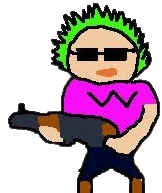
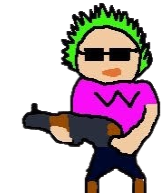
q

Changed region(s): [[0.0309, 0.0, 1.0, 1.0]]

diff --git a/src/scenes/PlayScene.js b/src/scenes/PlayScene.js
@@ -10,8 +10,8 @@ class PlayScene extends Phaser.Scene {
         // Load the player/police man sprites here
         this.load.image('player', '../Assets/player_right.png');
         this.load.image('player2', '../Assets/player_left.png');
-        this.load.image('shootingLeft', '../Assets/GuyLShoot.png');
-        this.load.image('shootingRight', '../Assets/GuyRShoot.png');
+        this.load.image('shootleft', '../Assets/GuyLShoot.png');
+        this.load.image('shootright', '../Assets/GuyRShoot.png');
         this.load.image('shootingDown', '../Assets/GuyDShoot.png');
         this.load.image('policeRight', '../Assets/Police.png');
         this.load.image('policeLeft', '../Assets/PoliceL.png');
@@ -214,7 +214,7 @@ this.block25.scaleY = 0.109;
 this.block25.refreshBody();
 this.physics.add.collider(this.player, this.block25);
 
-this.block26 = this.physics.add.staticSprite(50, -1200, 'block');
+this.block26 = this.physics.add.staticSprite(50, -1150, 'block');
 this.block26.displayWidth = 200; // Wider than the first block
 this.block26.scaleY = 0.209;
 this.block26.refreshBody();
@@ -300,20 +300,22 @@ this.physics.add.collider(this.player, this.block26);
         if ((this.cursors.left.isDown || this.cursors.a.isDown) && spacePressed) {
             this.player.setVelocityX(600);
             this.player.setVelocityY(1000);  // Move left when left arrow and space are presseds
-           // this.player.setTexture('shootingLeft');
+            this.player.setTexture('shootleft'); 
 
             if (!this.facingLeft) {
-                this.player.setTexture('player2'); // Change to block sprite
+
+                //this.player.setTexture('shootingLeft');
+                //this.player.setTexture('player2'); // Change to block sprite
                 this.facingLeft = true;
             }
         } else if ((this.cursors.right.isDown || this.cursors.d.isDown) && spacePressed) {
             this.player.setVelocityX(-600);
             this.player.setVelocityY(1000);  // Move right when right arrow and space are pressed
            // this.player.setTexture('shootingRight');
-
+           this.player.setTexture('shootright'); 
 
             if (this.facingLeft) {
-                this.player.setTexture('player'); // Change back to player sprite
+                //this.player.setTexture('player'); // Change back to player sprite
                 this.facingLeft = false;
             }
         } else {
@@ -334,6 +336,7 @@ this.physics.add.collider(this.player, this.block26);
         // Vertical movement
         if ((this.cursors.up.isDown || this.cursors.s.isDown) && spacePressed) {
             this.player.setVelocityY(-1000); // Move up when up arrow/S and space are pressed together
+            this.player.setTexture('shootingDown'); 
             //this.player.setTexture('shootingDown');
         } else if (this.cursors.down.isDown) {
             this.player.setVelocityY(300); // Move down when down arrow is pressed
